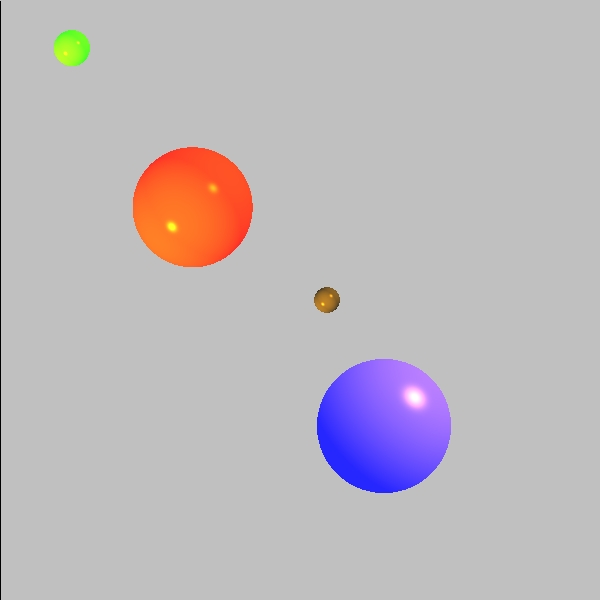
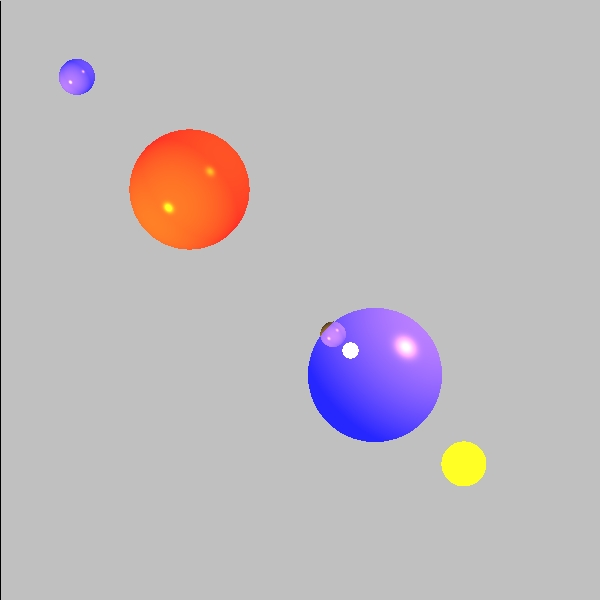
uuuu

Changed region(s): [[0.51, 0.48, 0.81, 0.84], [0.21, 0.21, 0.42, 0.45], [0.09, 0.03, 0.18, 0.18]]

diff --git a/src/renderer/Render.java b/src/renderer/Render.java
@@ -170,10 +170,13 @@ public class Render
 				{
 					Ray ray = camera.constructRayThroughPixel(nX, nY, pixel.col, pixel.row, _scene.getDistance(), _imageWriter.getWidth()
 							, _imageWriter.getHeight());
-					Point3D p = new Point3D(camera.getCenterOfPixel(nX, nY, pixel.col, pixel.row, _scene.getDistance(), _imageWriter.getWidth(), _imageWriter.getHeight()));
+					Point3D pScreen = new Point3D(camera.getCenterOfPixel(nX, nY, pixel.col, pixel.row, _scene.getDistance(), _imageWriter.getWidth(), _imageWriter.getHeight()));
+					List<Point3D> ps = camera.getPointsPixel(pScreen, nX, nY,  _imageWriter.getWidth(), _imageWriter.getHeight());
+					//List<Ray> ray4 = camera.constructRaysThroughPixel(nX, nY, pixel.col, pixel.row, _scene.getDistance(), _imageWriter.getWidth()
+						//	, _imageWriter.getHeight(), ps);
 					//Point3D focalPoint = findFocalPoint(p, _scene.getFocalPlaneDistance(), camera.getVto());
-					Point3D focalPoint = findFocalPoint(p, _scene.getFocalPlaneDistance()-_scene.getDistance(), ray.getDirectiion()/*camera.getVto()*/);
-					List<Ray> rays = createFocalRays(focalPoint, camera, /*_scene.getDistance(),*/ p);
+					Point3D focalPoint = findFocalPoint(pScreen, _scene.getFocalPlaneDistance()-_scene.getDistance(), ray.getDirectiion().normalized(), camera.getVto().normalized());
+					List<Ray> rays = createFocalRays(focalPoint, camera, /*_scene.getDistance(),*/ pScreen);
 					rays.add(ray);
 					Color color = colorPixel(rays); 
 					_imageWriter.writePixel(pixel.col, pixel.row, color.getColor());
@@ -552,9 +555,10 @@ public class Render
 	 * @param vTo
 	 * @return intersection point in the focal plane
 	 */
-	private Point3D findFocalPoint(Point3D p, double dis, Vector direction)
+	private Point3D findFocalPoint(Point3D pScreen, double dis, Vector direction, Vector vTo)
 	{
-			return new Point3D(p.add(direction.scale(dis)));
+		double t = dis/(direction.dotProduct(vTo));
+		return new Point3D(pScreen.add(direction.scale(t)));
 	}
 	
 	/**
@@ -577,10 +581,29 @@ public class Render
 			//Vector vr = new Vector(camera.getVright());
 		
 			List<Point3D> points = new LinkedList<Point3D>();
-			points.add(pScreen.add(v1).add(v2));
+			/*points.add(pScreen.add(v1).add(v2));
 			points.add(pScreen.add(v1.scale(-1)).add(v2.scale(-1)));
 			points.add(pScreen.add(v1.scale(-1)).add(v2));
-			points.add(pScreen.add(v1).add(v2.scale(-1)));
+			points.add(pScreen.add(v1).add(v2.scale(-1)));*/
+			
+			double xStart = pScreen.getX() - camera.getWidthSh() / 2;
+	    	double xEnd = pScreen.getX() + camera.getWidthSh() / 2;
+	    	double yStart = pScreen.getY() - camera.getHeightSh() / 2;
+	    	double yEnd = pScreen.getY() + camera.getHeightSh() / 2;
+	    	
+	    	points.add(new Point3D(xEnd, yEnd, pScreen.getZ()));
+	    	points.add(new Point3D(xEnd, yStart, pScreen.getZ()));
+	    	points.add(new Point3D(xStart, yEnd, pScreen.getZ()));
+	    	points.add(new Point3D(xStart, yStart, pScreen.getZ()));
+	    	//points.add(viewPoint);
+	    	
+	    	for(int i = 0; i < 300; i ++)
+	    	{
+	    		double x = (double) ((Math.random()*(xStart - xEnd + 1))+ xEnd);
+	    		double y = (double) ((Math.random()*(yStart - yEnd + 1))+ yEnd);
+	    		double z = pScreen.getZ();
+		    	points.add(new Point3D(x, y, z));
+	    	}
 			/*for(int i =2; i<5; i++)
 			{
 				Vector v1 = new Vector(vu.scale(camera.getHeightSh()/i));
@@ -592,7 +615,7 @@ public class Render
 			}*/
 			
 			
-			int j=-1;
+			/*int j=-1;
 			for(int k =0; k<4; k++)
 			{
 				Vector v = new Vector(k<2? camera.getVup(): camera.getVright());
@@ -602,11 +625,11 @@ public class Render
 					points.add(new Point3D(points.get(k).add(v.scale(j*i*d))));
 				}
 				j = j*-1;
-			}
+			}*/
 				
 			for(Point3D point: points)
 			{
-				ray.add(new Ray(point, new Vector(focalPoint.subtract(point))));
+				ray.add(new Ray(point, new Vector(focalPoint.subtract(point).normalized())));
 			}
 		}
 		catch(IllegalArgumentException e)
@@ -635,6 +658,50 @@ public class Render
 				color.add(c);
 		}
 		return color;
+    }
+	
+	private Color calcColorPixel4(List<Point3D> points, int k)
+	{
+		Camera camera = _scene.getCamera();
+		int nX = _imageWriter.getNx();
+		int nY = _imageWriter.getNy();
+		double screenWidth = _imageWriter.getWidth();
+		double screenHeight = _imageWriter.getHeight();
+		
+		List<Ray> rays = camera.constructRaysThroughPixel(points);
+		Ray r = rays.remove(0);
+		GeoPoint closestPoint = findCLosestIntersection(r);
+		Color color = (closestPoint == null ? _scene.getBackground(): calcColor(closestPoint, r));
+		for(Ray ray:rays)
+		{
+			closestPoint = findCLosestIntersection(ray);
+			Color c = closestPoint == null ? _scene.getBackground(): calcColor(closestPoint, ray);
+			if(c != color)
+			{
+				List<Point3D> centerP = findCenterNewPixels(points);
+				for(Point3D p: centerP)
+				{
+					List<Point3D> newPoints = camera.getPointsPixel(p, nX*2*k, nY*2*k, screenWidth,  screenHeight);
+					calcColorPixel4(newPoints, k+1);
+				}
+			}
+		}
+		return color;
 	}
+	
+	private List<Point3D> findCenterNewPixels(List<Point3D> points)
+	{
+		Vector vUp = _scene.getCamera().getVup().normalized();
+		Vector vRight = _scene.getCamera().getVright().normalized();
+		double w = points.get(0).distance(points.get(3));
+		double h = points.get(0).distance(points.get(2));
+		List<Point3D> centerPoints = new LinkedList<Point3D>();
+		centerPoints.add(points.get(0).add(vRight.scale(w/-4)).add(vUp.scale(h/-4)));
+		centerPoints.add(points.get(3).add(vRight.scale(w/4)).add(vUp.scale(h/-4)));
+		centerPoints.add(points.get(2).add(vRight.scale(w/-4)).add(vUp.scale(h/4)));
+		centerPoints.add(points.get(1).add(vRight.scale(w/4)).add(vUp.scale(h/4)));
+		return centerPoints;
+	}
+	
 }
 

diff --git a/src/unittests/DepthOfFieldTest.java b/src/unittests/DepthOfFieldTest.java
@@ -8,6 +8,7 @@ import elements.AmbientLight;
 import elements.Camera;
 import elements.DirectionalLight;
 import elements.SpotLight;
+import geometries.Plane;
 import geometries.Sphere;
 import geometries.Triangle;
 import primitives.Color;
@@ -47,21 +48,24 @@ class DepthOfFieldTest {
 	void test2()
 	{
 		Scene scene = new Scene("Test scene");
-		scene.setCamera(new Camera(new Point3D(0, 0, -1000), new Vector(0, 0, 1), new Vector(0, -1, 0), 14, 14));
+		scene.setCamera(new Camera(new Point3D(0, 0, -1000), new Vector(0, 0, 1), new Vector(0, -1, 0), 20, 20));
 		scene.setDistance(1000);
 		scene.setFocalPlane(2050);
-		scene.setBackground(new Color(java.awt.Color.LIGHT_GRAY));
+		scene.setBackground(new Color(java.awt.Color.lightGray));
 		scene.setAmbientLight(new AmbientLight(new Color(java.awt.Color.WHITE), 0.15));
 		scene.addGeometries(
-				 new Sphere(new Point3D(-400, -400, 4000), 30, new Color(java.awt.Color.GREEN), new Material(0.3, 0.7, 100, 0.5, 0)),
+				 new Sphere(new Point3D(-400, -400, 4000), 30, new Color(java.awt.Color.BLUE), new Material(0.3, 0.7, 100, 0.5, 0)),
 				 new Sphere(new Point3D(-50, -50, 500), 30, new Color(java.awt.Color.RED), new Material(0.3, 0.7, 100, 0.5, 0)),
 				 new Sphere(new Point3D(30,33, 6000), 30, new Color(java.awt.Color.BLACK), new Material(0.3, 0.5, 50, 0.7 , 0)),
+				 new Sphere(new Point3D(100, 100, 10000), 30, new Color(java.awt.Color.YELLOW), new Material(0.3, 0.7, 100, 0.5, 0)),
+				 new Sphere(new Point3D(200, 200, 3000), 30, new Color(java.awt.Color.ORANGE), new Material(0.3, 0.7, 100, 0.5, 0)),
+				// new Plane(new Point3D(0, 1.5, 0), new Point3D(4, 0.7, 0), new Point3D(0, 0, 50000), new Color(java.awt.Color.BLACK)),
 				 new Sphere(new Point3D(35, 35, -20), 30, new Color(java.awt.Color.BLUE), new Material(0.3, 0.5, 50, 0.7 , 0)));
-		/*scene.addGeometries(
+			/*scene.addGeometries(
 				new Sphere(  new Point3D(0, -25, 100),25, new Color(java.awt.Color.BLUE),new Material(0.5, 0.5, 100)),
 				new Sphere(new Point3D(50, 50, -5),30,new Color(java.awt.Color.RED), new Material(0.4, 0.3, 100, 0.3, 0)));
-		*/
-	 scene.addLights(new DirectionalLight(new Color(500, 300, 0), new Vector(1, -1, 1)));
+			 */
+		scene.addLights(new DirectionalLight(new Color(500, 300, 0), new Vector(1, -1, 1)));
 
 		ImageWriter imageWriter = new ImageWriter("depth of field test2", 200, 200, 600, 600);
 		Render render = new Render(imageWriter, scene);
@@ -75,14 +79,14 @@ class DepthOfFieldTest {
 	 Scene scene = new Scene("Test scene");
 	 scene.setCamera(new Camera(new Point3D(0, 0, -1000), new Vector(0, 0, 1), new Vector(0, -1, 0), 20, 20));
 	 scene.setDistance(1000);
-	 scene.setFocalPlane(2000);
+	 scene.setFocalPlane(1500);
 	 scene.setBackground(Color.BLACK);
 	 scene.setAmbientLight(new AmbientLight(new Color(java.awt.Color.WHITE), 0));
 
 	 scene.addGeometries(
-			 new Sphere(new Point3D(-80, -80, 660), 50, new Color(java.awt.Color.RED), new Material(0.3, 0.7, 100, 0.5, 0)),
-			 new Sphere(new Point3D(-10, -10, 360), 50, new Color(java.awt.Color.RED), new Material(0.3, 0.7, 100, 0.5, 0)),
-			 new Sphere(new Point3D(50, 50, 60), 50, new Color(java.awt.Color.RED), new Material(0.3, 0.7, 100, 0.5 , 0)));
+			 new Sphere(new Point3D(-80, -80, 6600), 50, new Color(java.awt.Color.RED), new Material(0.3, 0.7, 100, 0.5, 0)),
+			 new Sphere(new Point3D(-10, -10, 3600), 50, new Color(java.awt.Color.RED), new Material(0.3, 0.7, 100, 0.5, 0)),
+			 new Sphere(new Point3D(50, 50, 600), 50, new Color(java.awt.Color.RED), new Material(0.3, 0.7, 100, 0.5 , 0)));
 
 
 	 scene.addLights(new SpotLight(new Color(700, 400, 400), new Point3D(40, -40, -115), 1, 4E-4, 2E-5,  new Vector(0, 0, 1)));

diff --git a/src/elements/Camera.java b/src/elements/Camera.java
@@ -5,6 +5,9 @@ import primitives.Ray;
 import primitives.Vector;
 import static primitives.Util.isZero;
 
+import java.util.LinkedList;
+import java.util.List;
+
 /**
  * 
  * @author Rina and Tamar
@@ -93,6 +96,18 @@ public class Camera {
 		return ray;
 	}
 	
+	public List<Ray> constructRaysThroughPixel(List<Point3D> points)
+	{	
+		List<Ray> rays = new LinkedList<Ray>();
+		for(Point3D point:points)
+		{
+			 Vector v = new Vector(point.subtract(_p0));
+			  rays.add(new Ray(_p0,v));
+		}
+	    
+		return rays;
+	}
+	
 	/**
 	 * Get function for the point where the camera is located
 	 * 
@@ -163,6 +178,33 @@ public class Camera {
 			    	p = p.add(Vy);
 			    }
 			    return p;
+	}
+	
+	/**
+	 * 
+	 * @param centerPixel
+	 * @param nX
+	 * @param nY
+	 * @param screenWidth
+	 * @param screenHeight
+	 * @return
+	 */
+	public List<Point3D> getPointsPixel(Point3D centerPixel, int nX, int nY, double width, double height)
+	{
+		//width of pixel
+	    double Rx = width / nX;
+	    //height of pixel
+	    double Ry = height / nY;
+
+		Vector v1 = getVup().scale(Ry/2);
+		Vector v2 = getVright().scale(Rx/2);
+			    
+	    List<Point3D> points = new LinkedList<Point3D>();
+		points.add(centerPixel.add(v1).add(v2));
+		points.add(centerPixel.add(v1.scale(-1)).add(v2.scale(-1)));
+		points.add(centerPixel.add(v1.scale(-1)).add(v2));
+		points.add(centerPixel.add(v1).add(v2.scale(-1)));    
+		return points;
 	}
 
 }
